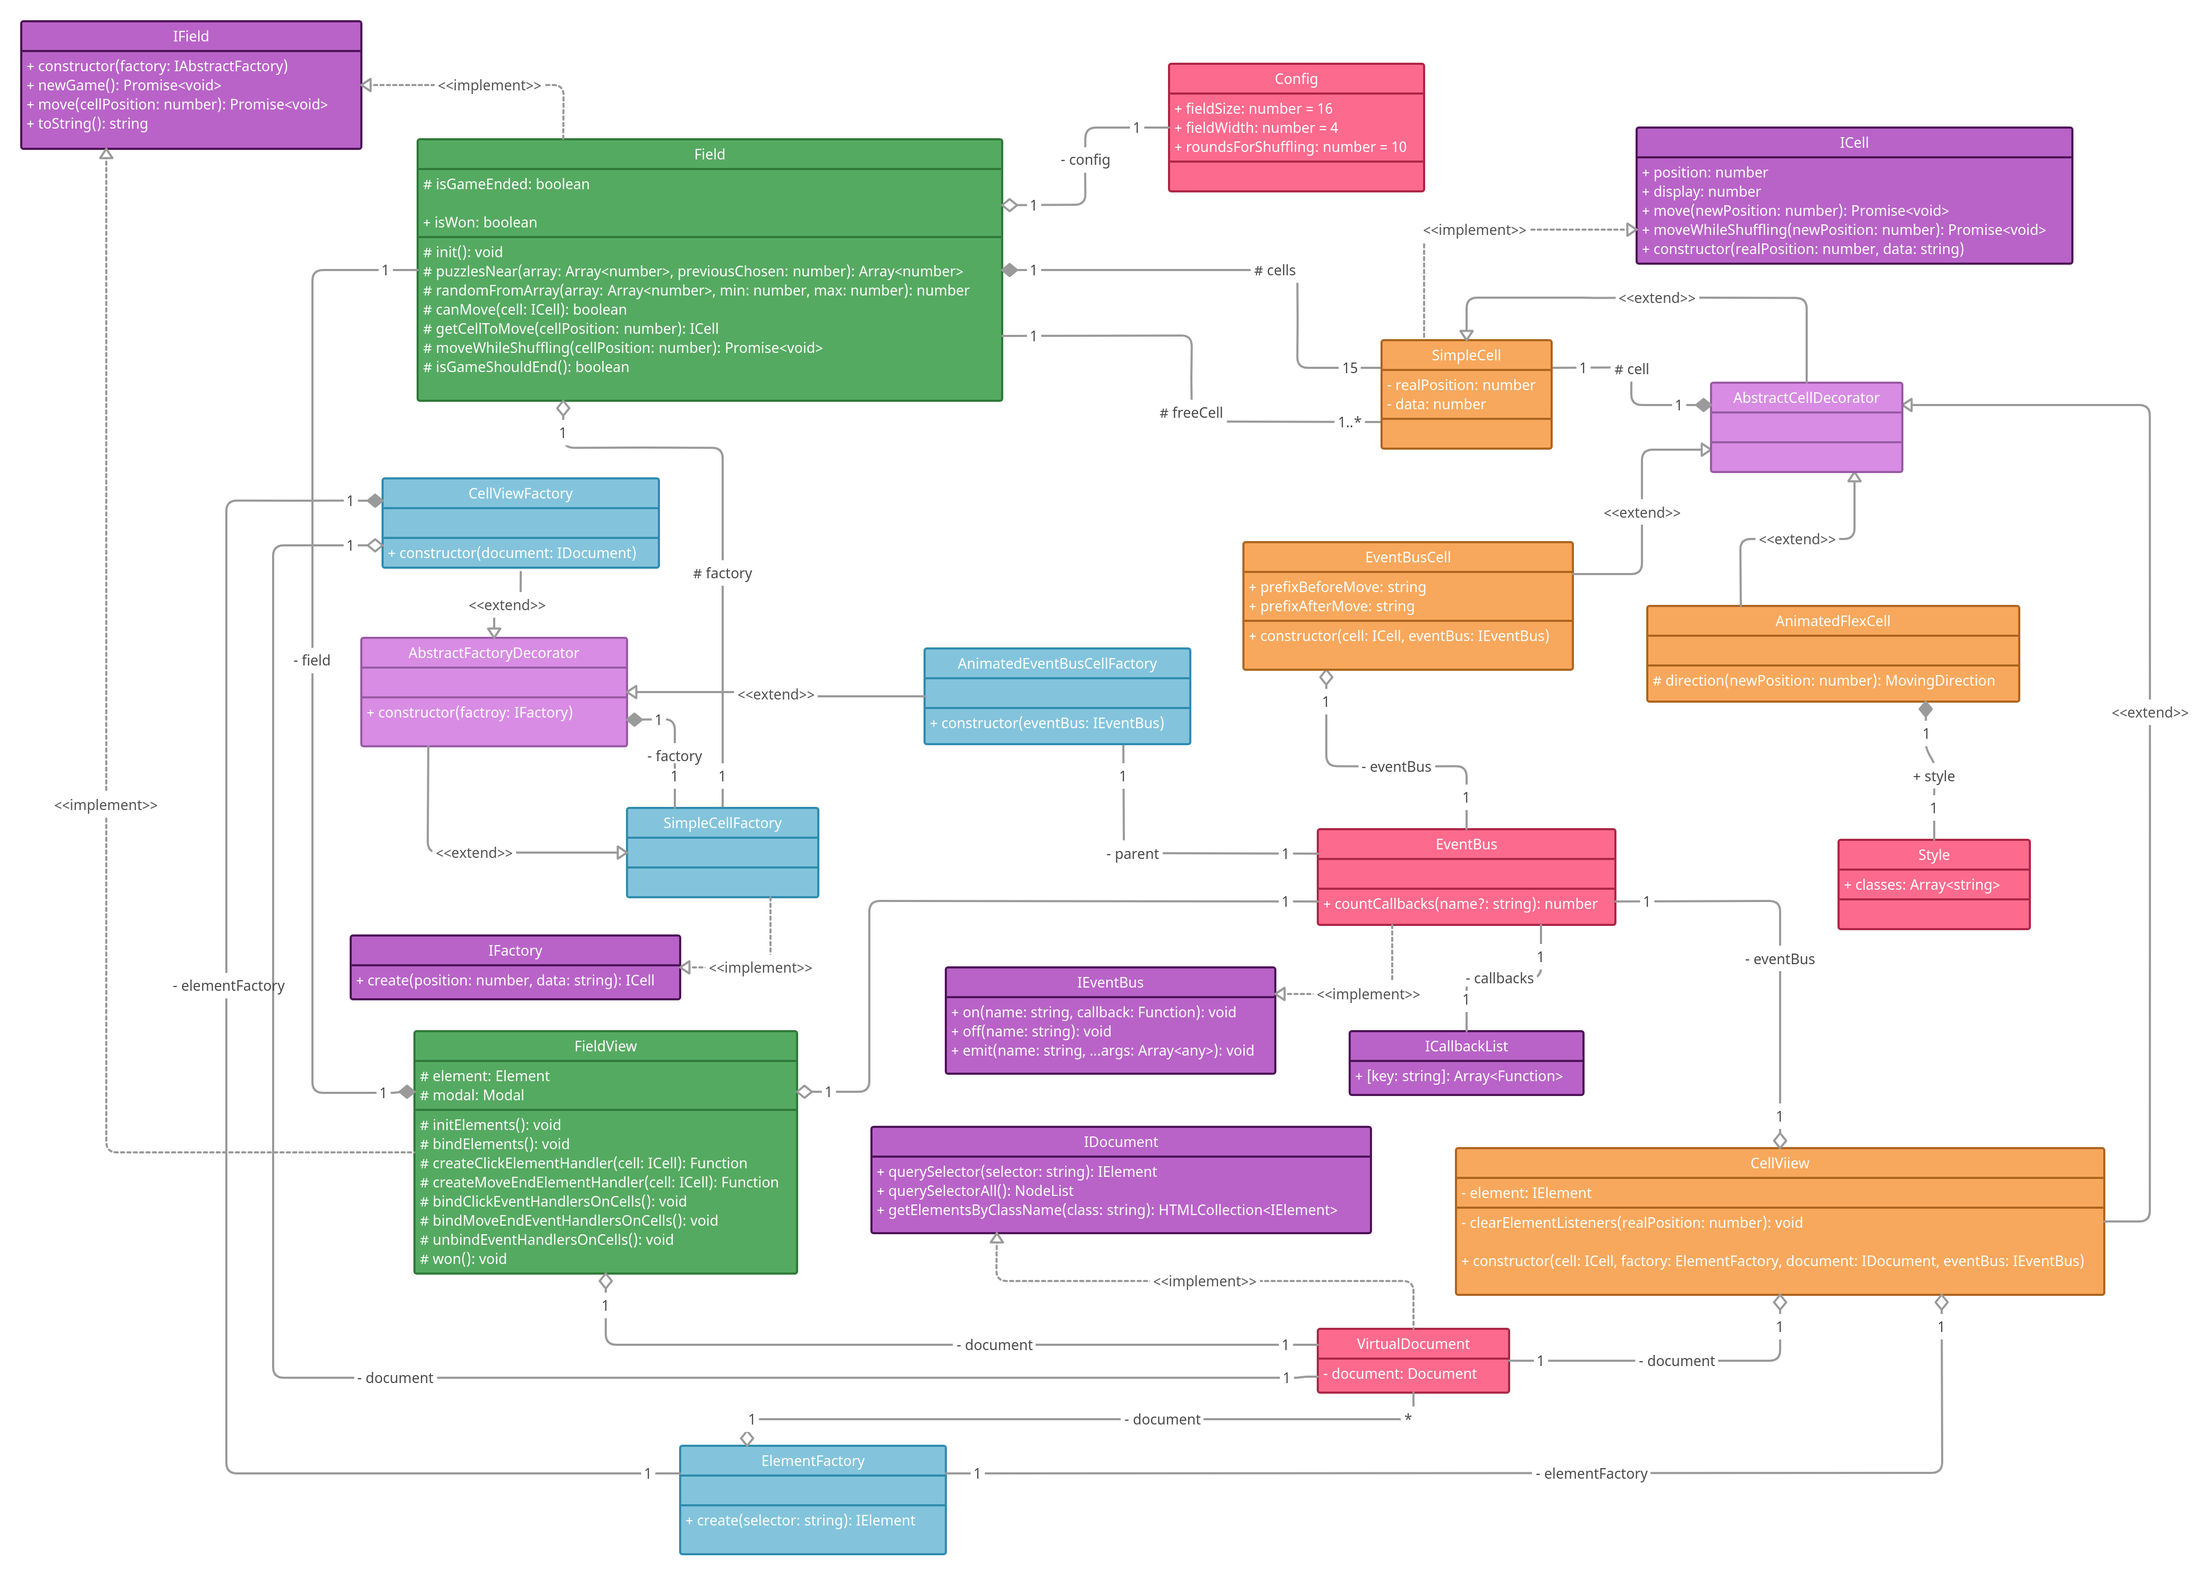
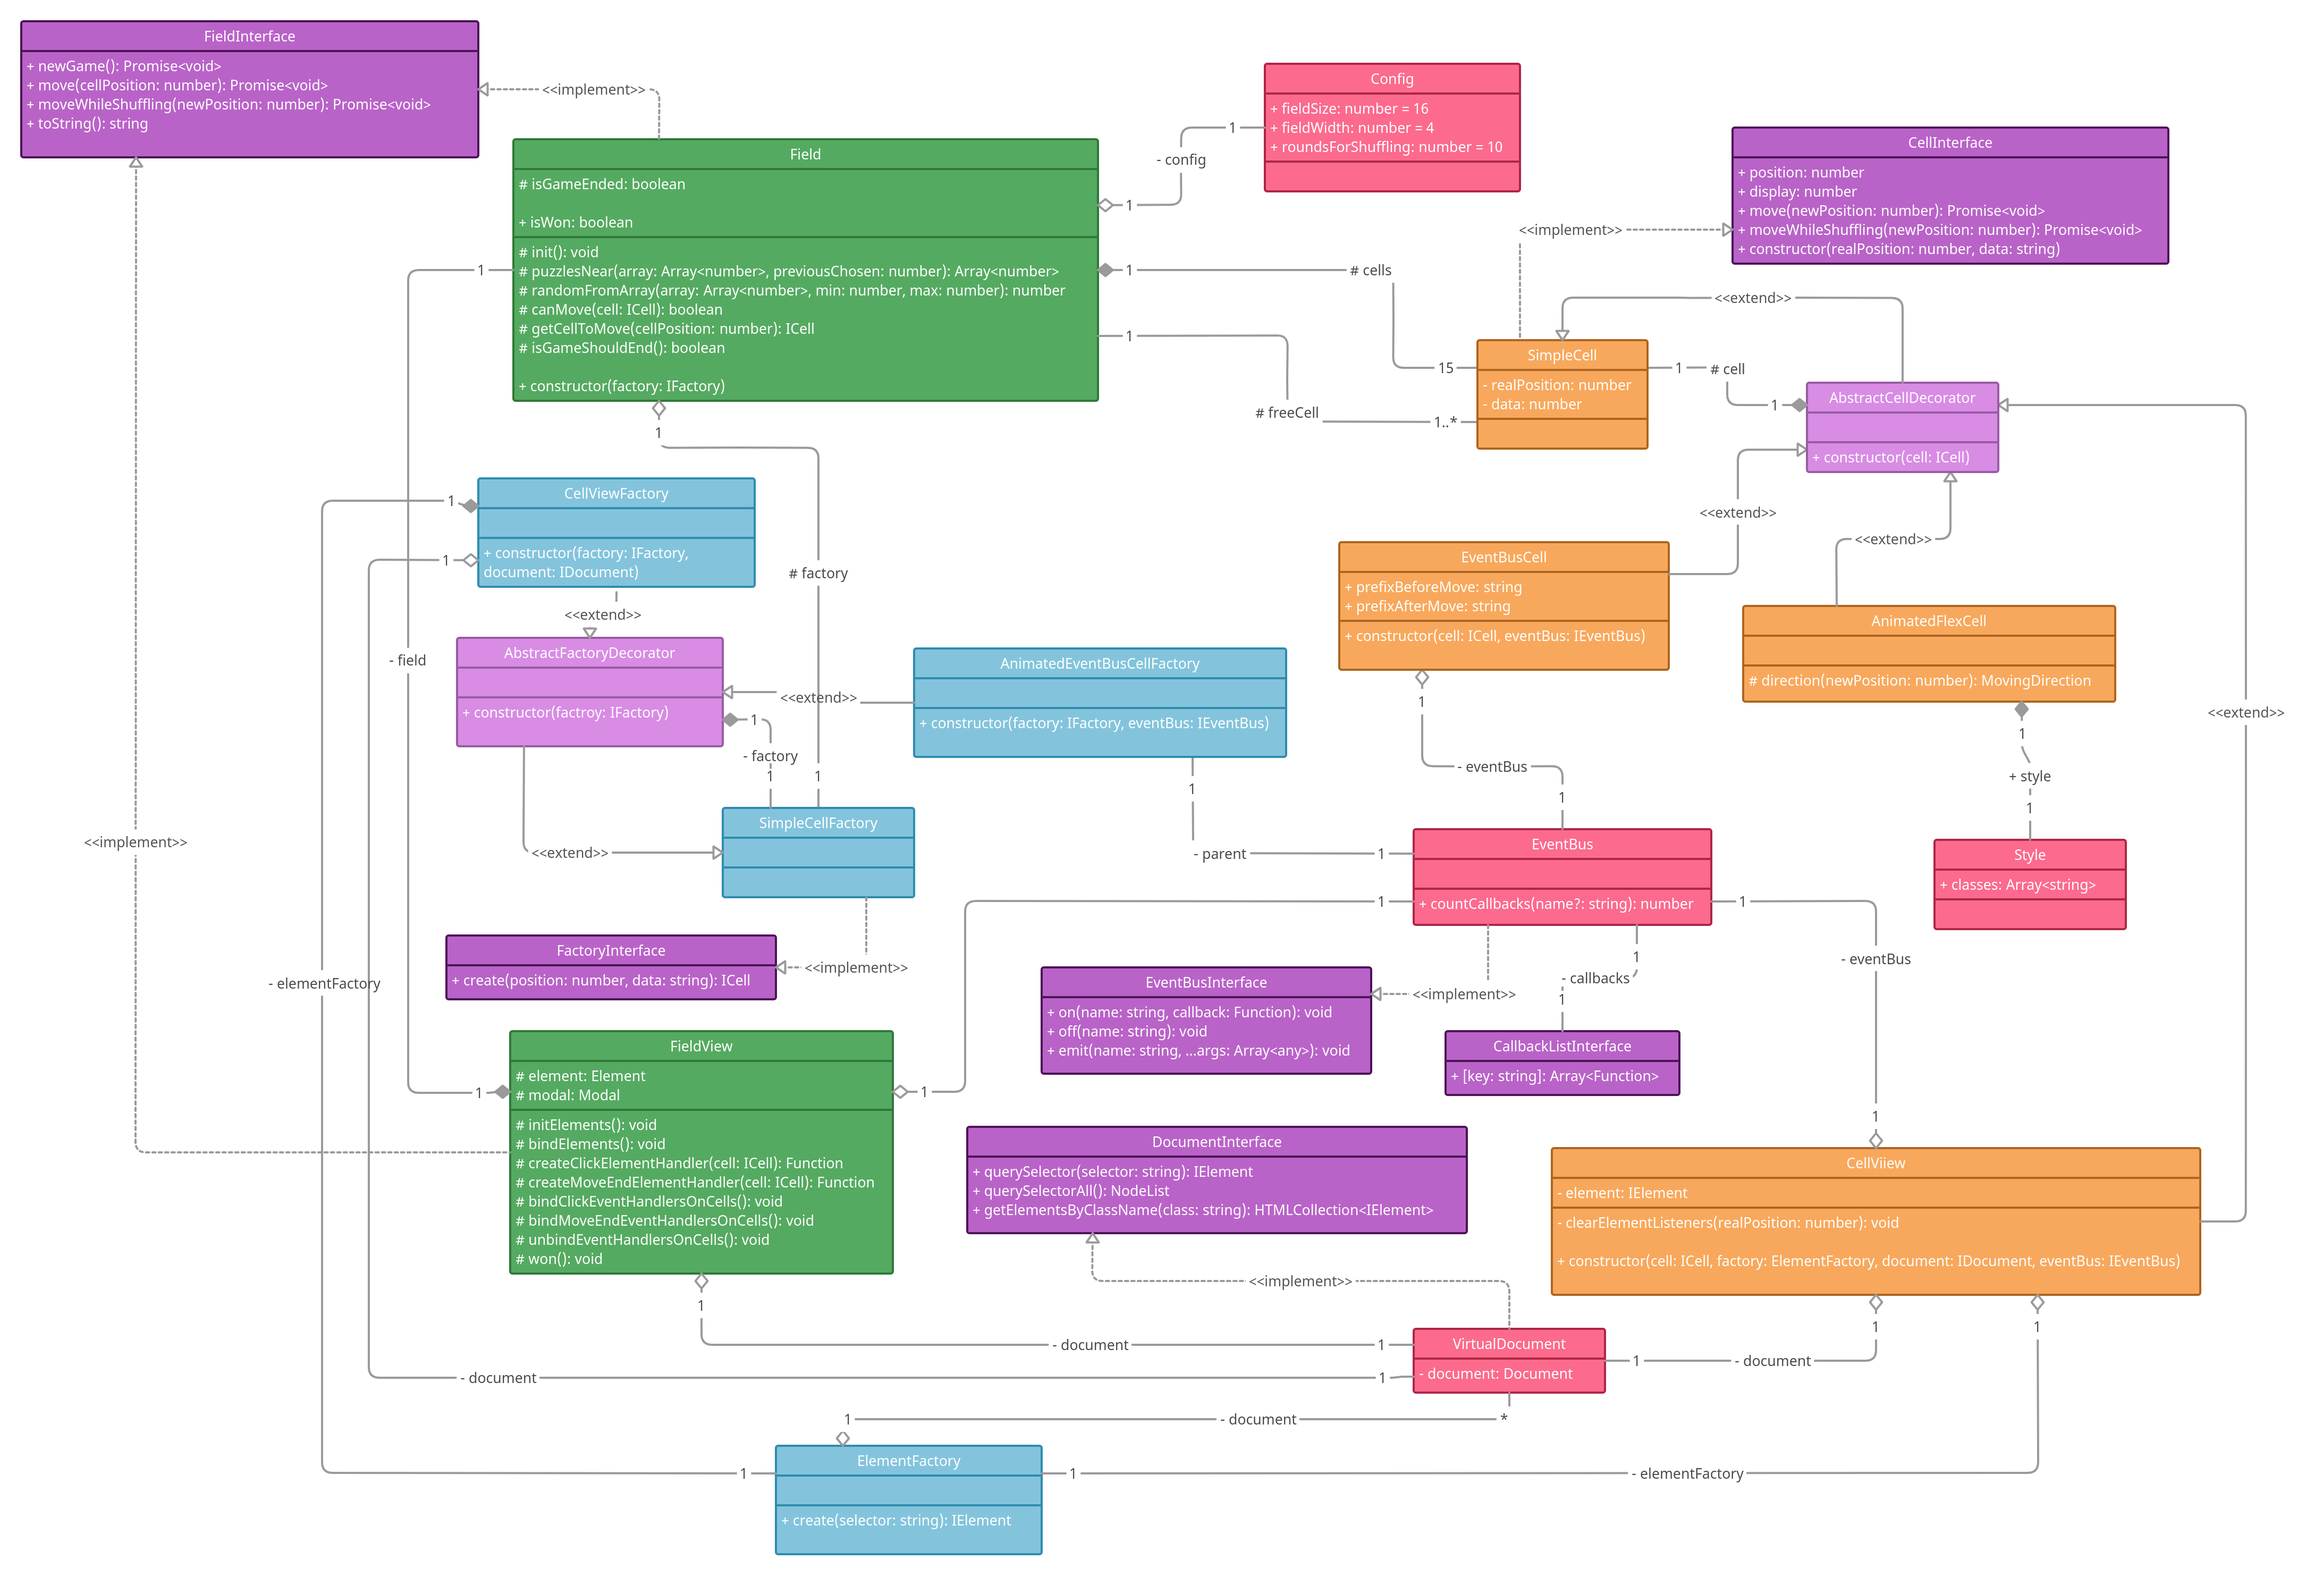
Renamed factories, added VirtualDocument without implementation

diff --git a/test/FieldView.test.ts b/test/FieldView.test.ts
@@ -1,5 +1,5 @@
 import FieldView from '../src/FieldView'
-import CellViewFactory from '../src/CellViewFactory'
+import CellView from '../src/factories/CellView'
 
 const template = `
     <div class="field">
@@ -24,13 +24,13 @@ const template = `
 
 test('creating a field: are all cells on the field?', () => {
     document.body.innerHTML = template
-    const field: FieldView = new FieldView(new CellViewFactory())
+    const field: FieldView = new FieldView(new CellView())
     expect(field.toString()).toBe('1,2,3,4,5,6,7,8,9,10,11,12,13,14,15,16')
 })
 
 test('creating a field: was added the class `in-game`?', () => {
     document.body.innerHTML = template
-    const field: FieldView = new FieldView(new CellViewFactory())
+    const field: FieldView = new FieldView(new CellView())
     field.toString()
     const fieldElement: Element = document.querySelector('.field')!
     expect(fieldElement.classList.contains('in-game')).toBeFalsy()
@@ -38,7 +38,7 @@ test('creating a field: was added the class `in-game`?', () => {
 
 test('starting a new game: was added the class `in-game`?', async () => {
     document.body.innerHTML = template
-    const field: FieldView = new FieldView(new CellViewFactory())
+    const field: FieldView = new FieldView(new CellView())
     await field.newGame()
     const fieldElement: Element = document.querySelector('.field')!
     expect(fieldElement.classList.contains('in-game')).toBeTruthy()
@@ -46,7 +46,7 @@ test('starting a new game: was added the class `in-game`?', async () => {
 
 test('moving a cell: was changed the free cell position?', async () => {
     document.body.innerHTML = template
-    const field: FieldView = new FieldView(new CellViewFactory())
+    const field: FieldView = new FieldView(new CellView())
     await field.newGame()
     const freeCell: Element = document.querySelector('.freeCell')!
     let freeCellPosition: number = 0
@@ -82,7 +82,7 @@ test('moving a cell: was changed the free cell position?', async () => {
 
 test('moving a cell: was changed the selected cell position?', async () => {
     document.body.innerHTML = template
-    const field: FieldView = new FieldView(new CellViewFactory())
+    const field: FieldView = new FieldView(new CellView())
     await field.newGame()
     const freeCell: Element = document.querySelector('.freeCell')!
     let freeCellPosition: number = 0
@@ -118,7 +118,7 @@ test('moving a cell: was changed the selected cell position?', async () => {
 
 test('moving a cell: was added the class `in-game`?', async () => {
     document.body.innerHTML = template
-    const field: FieldView = new FieldView(new CellViewFactory())
+    const field: FieldView = new FieldView(new CellView())
     await field.newGame()
     const freeCell: Element = document.querySelector('.freeCell')!
     let freeCellPosition: number = 0

diff --git a/src/CellView.ts b/src/CellView.ts
@@ -1,15 +1,15 @@
 import {AbstractCellDecorator, CellInterface} from 'fifteen-puzzle-core'
-import ElementFactory from './ElementFactory';
+import Element from './factories/Element';
 import {default as IEventBus} from './interfaces/EventBus'
-import IDocument from './interfaces/IDocument';
+import Document from './interfaces/Document';
 
 export default class CellView extends AbstractCellDecorator {
     private readonly eventBus: IEventBus = <IEventBus>{}
     private readonly element: Element = <Element>{}
-    private readonly document: IDocument = <IDocument>{}
-    private readonly elementFactory: ElementFactory = <ElementFactory>{}
+    private readonly document: Document = <Document>{}
+    private readonly elementFactory: Element = <Element>{}
 
-    constructor(cell: CellInterface, eventBus: IEventBus, document: IDocument, elementFactory: ElementFactory) {
+    constructor(cell: CellInterface, eventBus: IEventBus, document: Document, elementFactory: Element) {
         super(cell);
         this.eventBus = this.eventBus || eventBus
         this.element = this.element || this.element

diff --git a/src/VirtualDocument.ts b/src/VirtualDocument.ts
@@ -1,0 +1,16 @@
+import DocumentInterface from './interfaces/Document'
+
+export default class VirtualDocument implements DocumentInterface {
+    querySelector(selector: string): Element {
+        selector = selector || selector
+        return new Element()
+    }
+    querySelectorAll(selector: string): NodeList {
+        selector = selector || selector
+        return new NodeList()
+    }
+    getElementsByClassName(className: string): HTMLCollectionOf<Element> {
+        className = className || className
+        return new HTMLCollection()
+    }
+}

diff --git a/src/index.ts b/src/index.ts
@@ -1,11 +1,11 @@
 import FieldView from './FieldView'
-import CellViewFactory from './CellViewFactory'
+import CellView from './factories/CellView'
 import 'materialize-css/dist/css/materialize.min.css'
 import 'materialize-css/dist/js/materialize.min'
 import 'animate.css/animate.min.css'
 import '../css/main.css'
 
-const field: FieldView = new FieldView(new CellViewFactory())
+const field: FieldView = new FieldView(new CellView())
 
 const element: Element = document.querySelector('.new-game')!
 let isRunning = false

diff --git a/src/factories/AnimatedEventBusCell.ts b/src/factories/AnimatedEventBusCell.ts
@@ -1,0 +1,13 @@
+import {AbstractFactoryDecorator, CellInterface} from 'fifteen-puzzle-core';
+import EventBusInterface from '../interfaces/EventBus';
+
+export default class AnimatedEventBusCell extends AbstractFactoryDecorator {
+    constructor(factory: AbstractFactoryDecorator, eventBus: EventBusInterface) {
+        eventBus = eventBus || eventBus
+        super(factory);
+    }
+
+    create(position: number, data: string): CellInterface {
+        return super.create(position, data);
+    }
+}

diff --git a/src/factories/CellView.ts b/src/factories/CellView.ts
@@ -1,0 +1,8 @@
+import {AbstractFactoryDecorator} from 'fifteen-puzzle-core'
+import {CellInterface} from 'fifteen-puzzle-core'
+
+export default class CellView extends AbstractFactoryDecorator {
+    create(position: number, data: string): CellInterface {
+        return super.create(position, data)
+    }
+}

diff --git a/src/interfaces/Document.ts b/src/interfaces/Document.ts
@@ -1,4 +1,4 @@
-export default interface IDocument {
+export default interface Document {
     querySelector(selector: string): Element
     querySelectorAll(selector: string): NodeList
     getElementsByClassName(className: string): HTMLCollectionOf<Element>
